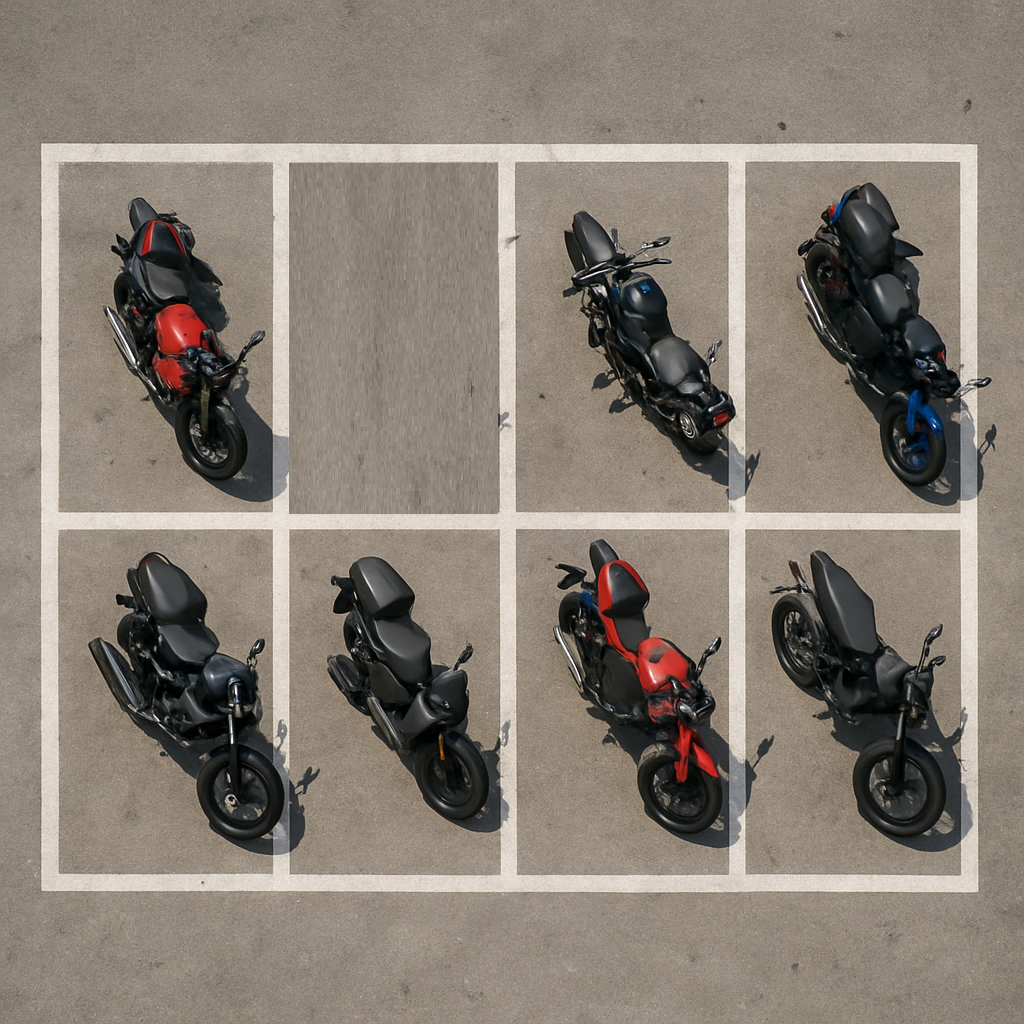
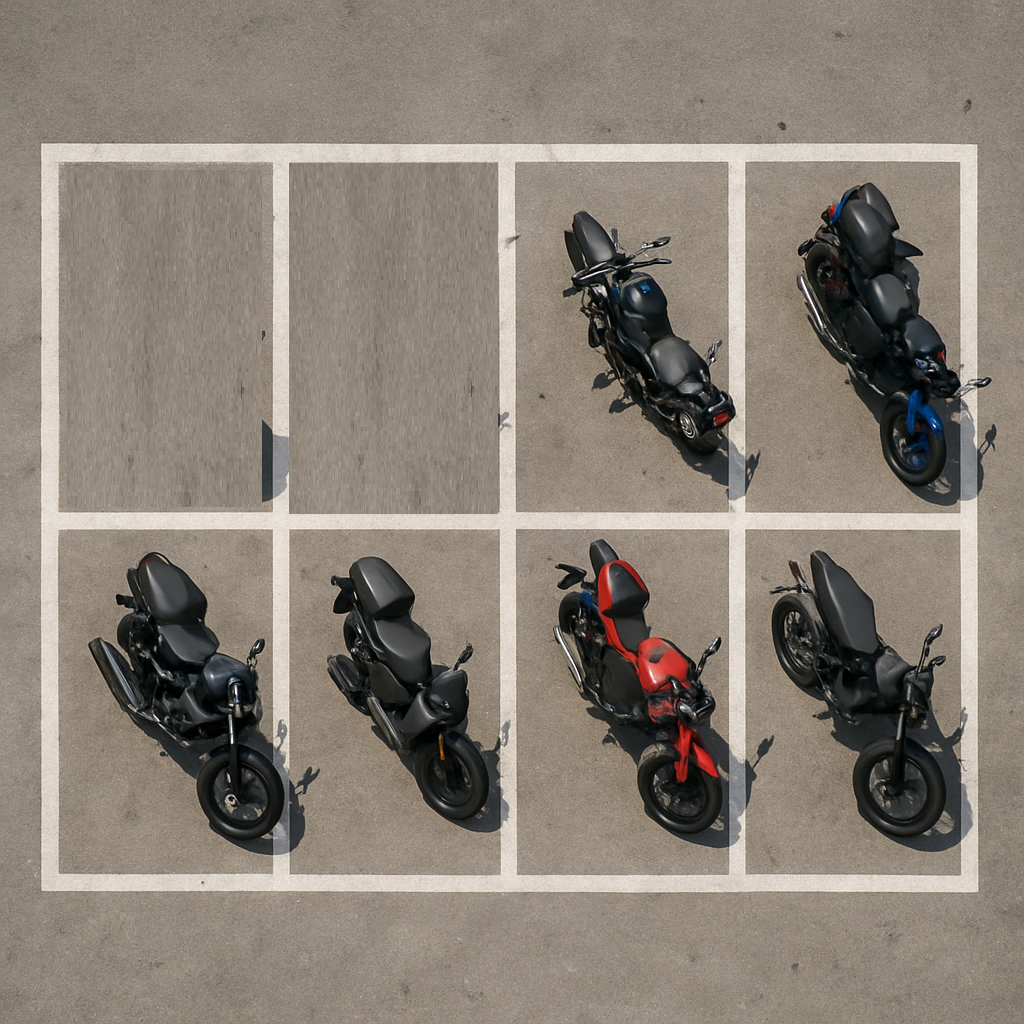
feat: actualizar la ruta del video a una imagen para la simulación de cámara

Changed region(s): [[0.0936, 0.1875, 0.2807, 0.5]]

diff --git a/backend/simulate_camera.py b/backend/simulate_camera.py
@@ -4,7 +4,7 @@ import cv2
 import requests
 
 API = "http://localhost:8000/api/ingest"
-VIDEO_PATH = "../test_images/video.mp4"
+VIDEO_PATH = "../test_images/img1.png"
 PLAYBACK_SPEED = 1.0  # 1.0 = tiempo real, 2.0 = doble velocidad
 JPEG_QUALITY = 85
 REQUEST_TIMEOUT = 20
